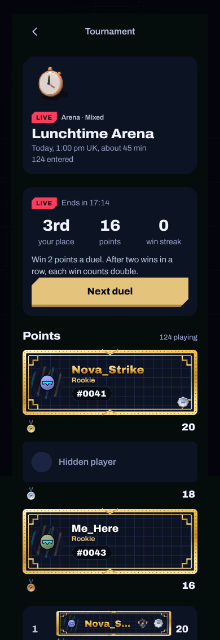
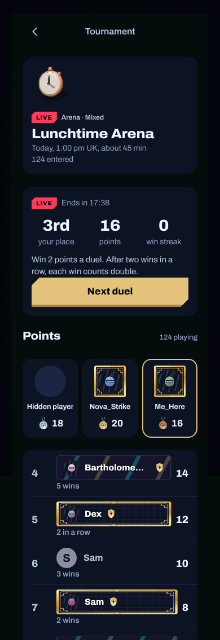
Tournament boards: the top three as compact cards side by side, rows from 4th (Joe, 14 Nov 2026)
Three compact cards at every size, 2nd · 1st · 3rd with 1st raised, each the mini card, name, medal and points; a
hidden player a plain disc that opens nothing; fewer than three shows only those. The rows below start after the
podium (splitPodium), so nobody is drawn twice. The main Leaderboards page is unchanged. Gallery: the arena,
Score Attack and desktop event shots re-recorded.

Claude-Session: https://claude.ai/code/session_011WK1Ff2KUhCby52Xo4nvMU

Changed region(s): [[0.0818, 0.5312, 0.9, 1.0], [0.4636, 0.3125, 0.4909, 0.3438]]

diff --git a/src/components/tournaments/TournamentEvent.tsx b/src/components/tournaments/TournamentEvent.tsx
@@ -9,7 +9,8 @@ import { useNavigate } from "@tanstack/react-router";
 import { AccountHead } from "@/components/account/AccountParts";
 import { PhoneShell } from "@/components/duel/PhoneShell";
 import { Button, EmptyState, Icon, LiveTag, Medal, Panel, Row, SectionHeader, SkeletonPage } from "@/design/components";
-import { NameplateFullCard, NameplateSheet, NameplateStrip, nameplateOpens, useNameplateSheet } from "@/design/identity";
+import { MiniCard, NameplateSheet, NameplateStrip, nameplateLook, nameplateOpens, useNameplateSheet } from "@/design/identity";
+import { PlayerBadge } from "@/components/duel/PlayerBadge";
 import { plateName, type PlateView } from "@/lib/identity/plates";
 import { ukTime } from "@/lib/publicSchedule";
 import { KIND_LABEL, placeLabel, UNDER_REVIEW_LINE } from "@/lib/tournaments/rules";
@@ -208,8 +209,9 @@ function ArenaLive({ ev, now }: { ev: TournamentEventView; now: number }) {
           rows={(board?.rows ?? []).map((r) => ({ place: r.place, plate: r.plate, isMe: r.isMe, value: `${r.points}`, valueLabel: `${r.points} points` }))}
           onOpen={openRow}
         />
+        {splitPodium(board?.rows ?? []).below.length > 0 ? (
         <Panel as="ol">
-          {(board?.rows ?? []).map((r) => (
+          {splitPodium(board?.rows ?? []).below.map((r) => (
             <PlateRow
               key={r.playerId}
               place={r.place}
@@ -223,6 +225,7 @@ function ArenaLive({ ev, now }: { ev: TournamentEventView; now: number }) {
             />
           ))}
         </Panel>
+        ) : null}
       </section>
       <NameplateSheet player={openCard?.plate ?? null} onClose={closeCard}>
         {openCard?.line}
@@ -280,8 +283,9 @@ function ScoreAttackPlay({ ev, onPlay }: { ev: TournamentEventView; onPlay: () =
             rows={board.rows.map((r) => ({ place: r.place, plate: r.plate, isMe: r.isMe, value: r.total.toLocaleString("en-GB"), valueLabel: r.total.toLocaleString("en-GB") }))}
             onOpen={openRow}
           />
+          {splitPodium(board.rows).below.length > 0 ? (
           <Panel as="ol">
-            {board.rows.map((r) => (
+            {splitPodium(board.rows).below.map((r) => (
               <PlateRow
                 key={`${r.place}`}
                 place={r.place}
@@ -293,6 +297,7 @@ function ScoreAttackPlay({ ev, onPlay }: { ev: TournamentEventView; onPlay: () =
               />
             ))}
           </Panel>
+          ) : null}
         </section>
       ) : null}
       <NameplateSheet player={openCard?.plate ?? null} onClose={closeCard}>
@@ -565,49 +570,76 @@ interface PodiumRow {
   valueLabel: string;
 }
 
+/** The podium's rows (the first three placed 1st to 3rd) and the rows below it, so nobody is drawn twice. */
+export function splitPodium<T extends { place: number }>(rows: readonly T[]): { podium: T[]; below: T[] } {
+  const podium = rows.slice(0, 3).filter((r) => r.place <= 3);
+  return { podium, below: rows.slice(podium.length) };
+}
+
+/** A podium slot's picture: the player's mini card, a guest's colour and initial, or a hidden player's plain disc. */
+function PodiumFace({ player: plate }: { player: PlateView }) {
+  if (plate.kind === "card") return <MiniCard look={nameplateLook(plate.card)} size={56} />;
+  if (plate.kind === "plain" && plate.colour !== null)
+    return <PlayerBadge look={{ colour: plate.colour, icon: plate.icon ?? null }} name={plate.name} size={56} />;
+  return (
+    <span className="tn-pod-disc" aria-hidden="true" data-hidden-disc={plate.kind === "hidden" ? "" : undefined}>
+      {plate.kind === "plain" ? plate.name.slice(0, 1).toUpperCase() : null}
+    </span>
+  );
+}
+
 /**
- * The top three of a tournament board as full cards (as the leaderboards draw theirs, `lb-podium`): stacked on phones,
- * 1st in the middle from 700 px. A hidden player or a guest keeps their plain strip ("Hidden player" on a plain disc),
- * never a card, and opens nothing. Places and scores sit under each card, never on it.
+ * The top three of a tournament board (Joe, 14 Nov 2026): three compact cards side by side at every size, 2nd · 1st ·
+ * 3rd with 1st raised, each the player's mini card, name, medal and points (places and scores under the card, never on
+ * it). A hidden player keeps "Hidden player" on a plain disc and opens nothing; a guest keeps colour and initial. With
+ * fewer than three on the board, only those show. The rows below start after them (`splitPodium`).
  */
 export function PlatePodium({ rows, onOpen }: { rows: readonly PodiumRow[]; onOpen: (row: OpenRow) => void }) {
-  const top = rows.filter((r) => r.place <= 3).slice(0, 3);
+  const top = splitPodium(rows).podium;
   if (top.length === 0) return null;
   return (
-    <ol className="lb-podium tn-podium" aria-label="Top 3" data-board-podium={top.length}>
+    <ol className="tn-podium" aria-label="Top 3" data-board-podium={top.length}>
       {top.map((r, i) => {
         const name = plateName(r.plate);
+        const shown = r.isMe && r.plate.kind !== "hidden" ? `${name} (you)` : name;
         const opens = nameplateOpens(r.plate);
-        const card = opens ? (
-          <NameplateFullCard player={r.plate} />
-        ) : (
-          <span className="lb-podium-plain" data-hidden-player={r.plate.kind === "hidden" ? "" : undefined}>
-            <NameplateStrip player={r.plate} label={name} />
-          </span>
+        const inner = (
+          <>
+            <PodiumFace player={r.plate} />
+            {/* The name alone (your own card is ringed in gold; "(you)" stays in its accessible name). */}
+            <span className="tn-pod-name" data-ellipsis="">
+              {name}
+            </span>
+            <span className="tn-pod-foot">
+              <Medal place={r.place} />
+              <span className="tn-pod-value">{r.value}</span>
+            </span>
+          </>
         );
         return (
-          <li key={`${r.place}-${i}`} className="lb-podium-step" data-podium-place={i + 1} data-me={r.isMe ? "" : undefined}>
+          <li
+            key={`${r.place}-${i}`}
+            className="tn-pod-step"
+            data-podium-place={i + 1}
+            data-me={r.isMe ? "" : undefined}
+            data-hidden-player={r.plate.kind === "hidden" ? "" : undefined}
+          >
             {opens ? (
               <button
                 type="button"
-                className="lb-podium-card press"
+                className="tn-pod-card press"
                 data-names=""
-                data-skin-off=""
                 onClick={() => onOpen({ plate: r.plate, line: `${ordinal(r.place)} · ${r.valueLabel}` })}
-                aria-label={`${ordinal(r.place)}, ${name}. Open card`}
+                aria-label={`${ordinal(r.place)}, ${shown}, ${r.valueLabel}. Open card`}
                 data-open-card
               >
-                {card}
+                {inner}
               </button>
             ) : (
-              <span className="lb-podium-card" data-names="" data-skin-off="">
-                {card}
+              <span className="tn-pod-card" aria-label={`${ordinal(r.place)}, ${shown}, ${r.valueLabel}`} role="group">
+                {inner}
               </span>
             )}
-            <span className="lb-podium-foot">
-              <Medal place={r.place} />
-              <span className="lb-value">{r.value}</span>
-            </span>
           </li>
         );
       })}

diff --git a/src/polish-layout/tournaments-pages.css b/src/polish-layout/tournaments-pages.css
@@ -172,8 +172,93 @@
   color: var(--jz-text-2);
   font-variant-numeric: tabular-nums;
 }
+/* The tournament boards' top three (Joe, 14 Nov 2026): three compact cards side by side at every size, 2nd · 1st · 3rd,
+   1st raised; with fewer than three, only those. */
 .tn-podium {
-  margin-bottom: var(--jz-space-12);
+  display: grid;
+  grid-auto-flow: column;
+  grid-auto-columns: minmax(0, 1fr);
+  align-items: end;
+  gap: var(--jz-space-8);
+  margin: 0 0 var(--jz-space-12);
+  padding: 0;
+  list-style: none;
+}
+.tn-pod-step {
+  min-width: 0;
+}
+.tn-pod-step[data-podium-place="1"] {
+  order: 2;
+}
+.tn-pod-step[data-podium-place="2"] {
+  order: 1;
+}
+.tn-pod-step[data-podium-place="3"] {
+  order: 3;
+}
+.tn-podium[data-board-podium="1"] > .tn-pod-step,
+.tn-pod-step:not([data-podium-place="1"]) {
+  padding-top: var(--jz-space-16);
+}
+.tn-podium[data-board-podium="1"] > .tn-pod-step {
+  padding-top: 0;
+}
+.tn-pod-card {
+  display: flex;
+  width: 100%;
+  min-height: 44px;
+  min-width: 0;
+  flex-direction: column;
+  align-items: center;
+  gap: var(--jz-space-8);
+  padding: var(--jz-space-12) var(--jz-space-4);
+  border: 0;
+  border-radius: var(--jz-radius-lg);
+  background: var(--jz-surface);
+  color: var(--jz-text);
+  font-family: var(--jz-font);
+  text-align: center;
+}
+button.tn-pod-card {
+  cursor: pointer;
+}
+button.tn-pod-card:focus-visible {
+  outline: 3px solid var(--jz-focus-ring);
+  outline-offset: 3px;
+}
+.tn-pod-step[data-me] > .tn-pod-card {
+  box-shadow: inset 0 0 0 2px var(--jz-gold);
+}
+.tn-pod-disc {
+  display: inline-flex;
+  width: 56px;
+  height: 56px;
+  flex: none;
+  align-items: center;
+  justify-content: center;
+  border-radius: 50%;
+  background: var(--jz-surface-2);
+  font: var(--jz-type-body);
+  color: var(--jz-text-2);
+}
+.tn-pod-name {
+  overflow: hidden;
+  max-width: 100%;
+  font: var(--jz-type-caption);
+  color: var(--jz-text);
+  text-overflow: ellipsis;
+  white-space: nowrap;
+}
+.tn-pod-foot {
+  display: flex;
+  align-items: center;
+  justify-content: center;
+  gap: var(--jz-space-4);
+}
+.tn-pod-value {
+  font: var(--jz-type-body);
+  color: var(--jz-text);
+  font-variant-numeric: tabular-nums;
 }
 /* A computer: the event and its board side by side (the extra width used, never a stretched phone column). */
 @media (min-width: 1024px) and (min-height: 500px) and (hover: hover) and (pointer: fine) {

diff --git a/CLAUDE.md b/CLAUDE.md
@@ -2556,8 +2556,10 @@ outside the repo.
   list rows: the event's art-kit icon, name, pick · entry · players, the time on the right, the bell for accounts) and
   Your results (entries, then public-game results); both views are in the markup, the other `hidden`. The Category Cup
   and the Championship stay hidden while their switches are off (`kindShown`). Event pages: a cut hero card, the
-  boards' top three as full cards (`PlatePodium`, as the leaderboards' `lb-podium`) over the NameplateStrip rows,
-  prizes with medals, the rules as a row. Leaderboards: a board picker (`BoardPickerButton`: a sheet on phones and
+  boards' top three as compact cards side by side at every size (`PlatePodium`: 2nd · 1st · 3rd, 1st raised, the mini
+  card, name, medal and points; a hidden player a plain disc that opens nothing; Joe, 14 Nov 2026), then the
+  NameplateStrip rows from 4th (`splitPodium`, nobody twice), prizes with medals, the rules as a row; the main
+  Leaderboards page keeps its full-card podium. Leaderboards: a board picker (`BoardPickerButton`: a sheet on phones and
   tablets, the `data-board-side` list beside the board on a computer) holding the Joulz Rating, Puzzles, Arcade, the
   Daily top 100 and the eleven category boards (`/leaderboards?board=<category>`); Profile's `CategoryBoards` is
   unchanged. The Daily page: a cut hero card per kind and your line (`DailyYou`); the Daily archive's rows one

diff --git a/docs/design/pages-review/tournaments/GALLERY.md b/docs/design/pages-review/tournaments/GALLERY.md
@@ -19,8 +19,9 @@ button); the week as list rows with the art kit's icons, the time on the right a
 
 ## Event pages
 
-A cut hero card with the event's icon; the board's top three as full cards above the nameplate rows; prizes with
-medals; the full rules as a row. The live Arena and a finished Score Attack:
+A cut hero card with the event's icon; the board's top three as compact cards side by side (2nd · 1st · 3rd, 1st
+raised, each with its medal and points; a hidden player on a plain disc), then the nameplate rows from 4th; prizes
+with medals; the full rules as a row. The live Arena and a finished Score Attack:
 
 | Arena, live | Score Attack |
 |---|---|
